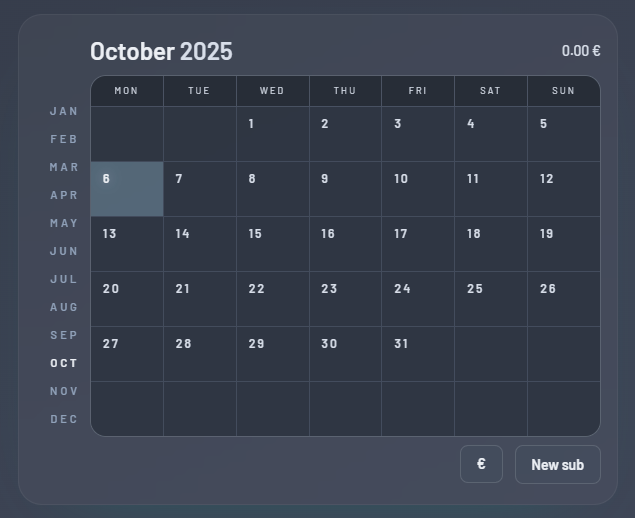
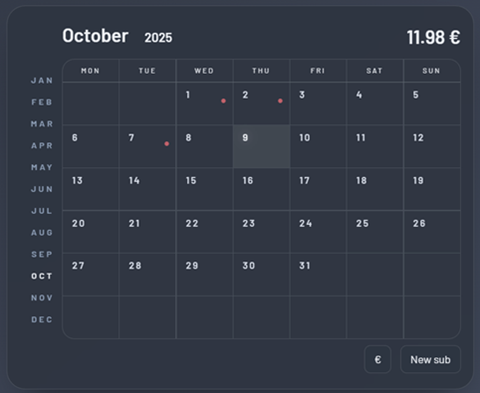
fix: update readme, minor styling

diff --git a/src/client/components/MonthlyCalendar.tsx b/src/client/components/MonthlyCalendar.tsx
@@ -143,6 +143,11 @@ function MonthlyCalendar({
         </div>
         {/* Right-side summary */}
         <div className="text-2xl font-semibold text-[var(--text)]">
+          {monthlyTotalText ? (
+            <div className="flex items-center gap-2">
+              <span aria-label={`Monthly total`}>{monthlyTotalText}</span>
+            </div>
+          ) : null}
         </div>
       </header>
 
@@ -160,7 +165,7 @@ function MonthlyCalendar({
 
         <div className="grid grid-cols-7 gap-px bg-[var(--border)] text-xs">
           {weeks.map((week) => (
-            <div key={week[0].toISOString()} className="contents">
+            <div key={week[0].format('YYYY-MM-DD')} className="contents">
               {week.map((date) => {
                 const isCurrentMonth = date.month() === viewDate.month();
                 const isToday = date.isSame(today, 'day');
@@ -171,7 +176,7 @@ function MonthlyCalendar({
 
                 return (
                   <div
-                    key={date.toISOString()}
+                    key={date.format('YYYY-MM-DD')}
                     className={`relative flex min-h-[54px] flex-col bg-[var(--surface)] px-3 py-2 transition-colors ${
                       isCurrentMonth ? 'text-[var(--text)]' : 'text-[var(--text-muted)]/20'
                     } ${isWeekend && isCurrentMonth ? 'bg-[var(--surface)]' : ''} ${

diff --git a/src/client/components/Footer.tsx b/src/client/components/Footer.tsx
@@ -7,8 +7,8 @@ function getCurrentYear(): number {
 function Footer() {
   const year = useMemo(getCurrentYear, []);
   return (
-    <footer className="w-full text-center text-slate-200 text-[10pt] mt-auto mb-[5px]">
-      Amuzing Subscription Calendar © {year}
+    <footer className="w-full text-center text-slate-200 text-[9pt] mt-auto mb-[5px]">
+      Amuzing Subscriptions Calendar © {year}
     </footer>
   );
 }

diff --git a/README.md b/README.md
@@ -1,12 +1,20 @@
-# Amuzing Subs Calendar
-
+# Amuzing Subscriptions Calendar
+ 
 ![React](https://img.shields.io/badge/react-%2361DAFB.svg?style=for-the-badge&logo=react&logoColor=white) ![Vite](https://img.shields.io/badge/vite-%23646CFF.svg?style=for-the-badge&logo=vite&logoColor=white) ![Tailwind](https://img.shields.io/badge/Tailwind_CSS-grey?style=for-the-badge&logo=tailwind-css&logoColor=38B2AC) ![GitHub license](https://img.shields.io/github/license/gkalian/timeline-generator?style=for-the-badge)
+
+Subscriptionss Calendar is a lightweight web app for tracking and visualizing recurring subscriptions on a monthly calendar. It highlights upcoming renewal dates and aims to provide quick add/edit/delete flows. 
 
 ![](sc-preview.png)
 
-Work in progress
-
 ## Features
 
-- Show monthly calendar with marked subscription dates
-- Add / Edit / Delete subscription (in progress)
+- Monthly calendar with marked subscription dates; click a day to view items
+- Create, edit, and delete subscriptions in a modal dialog
+- Built-in date picker (week starts on Monday)
+- Simple Express API with file-backed storage for persistence
+
+## Το-Do
+
+- Add actual icons instead of dots
+- Extend subscription items with more services
+- Add fancy animations using Motion library.
